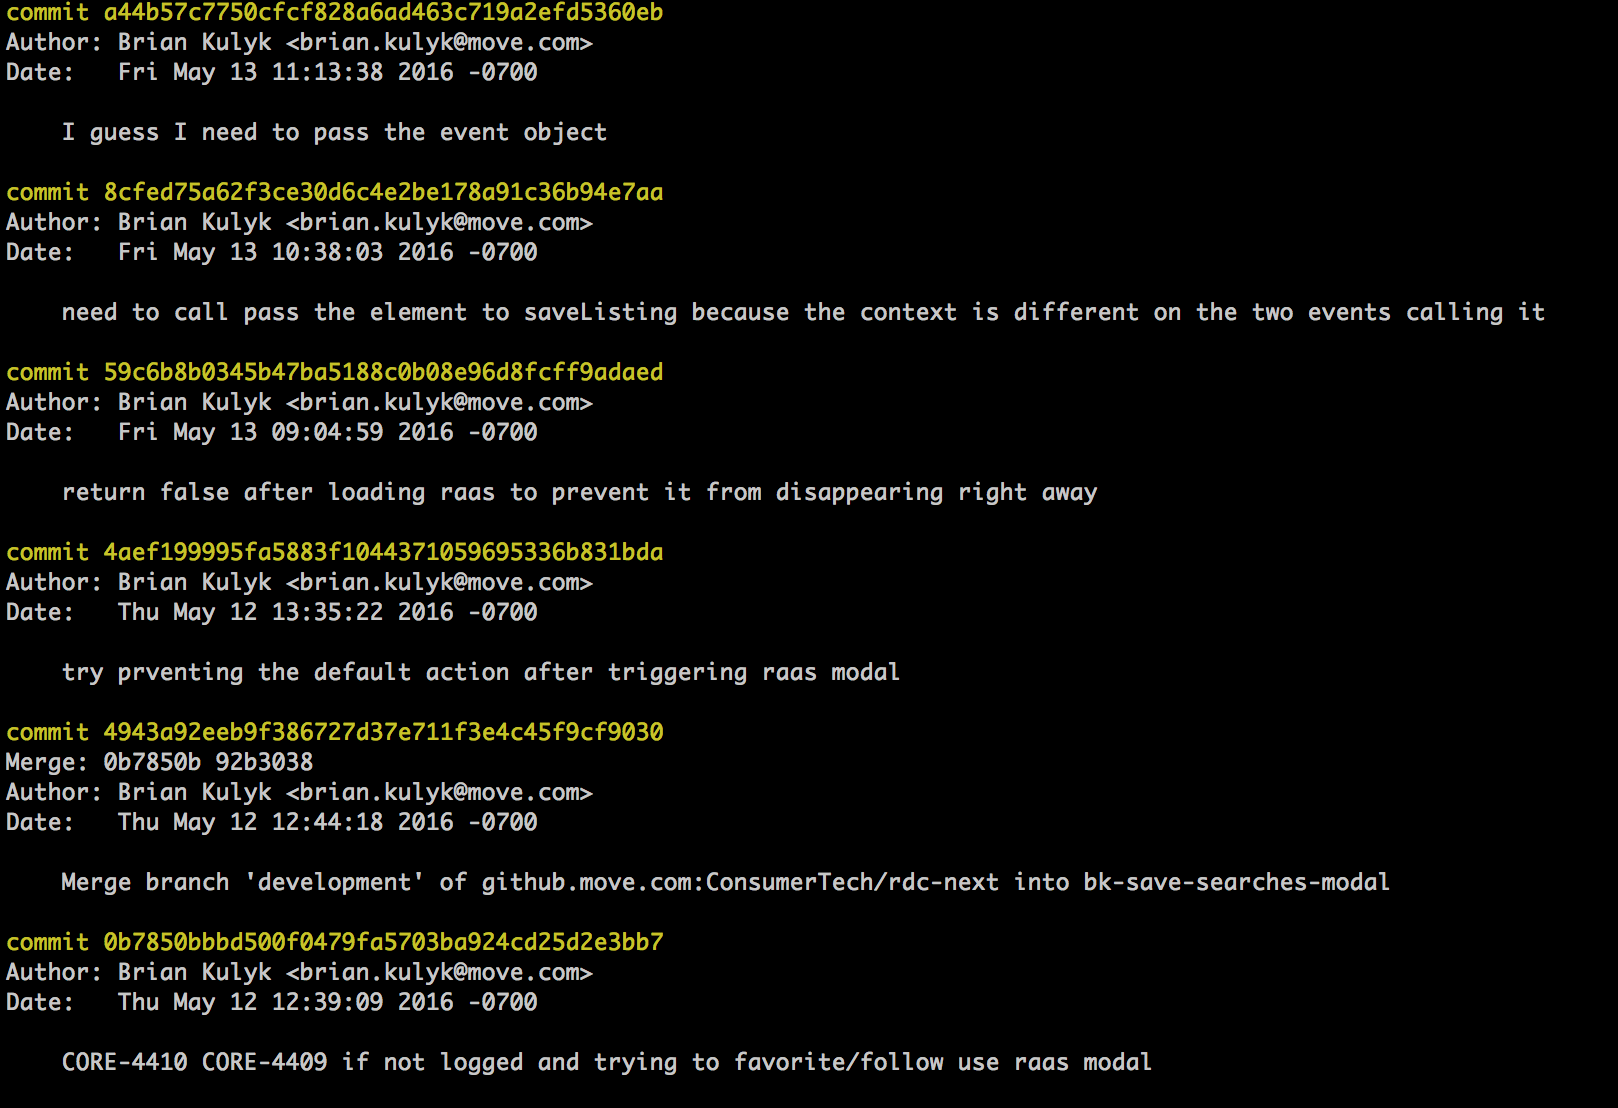
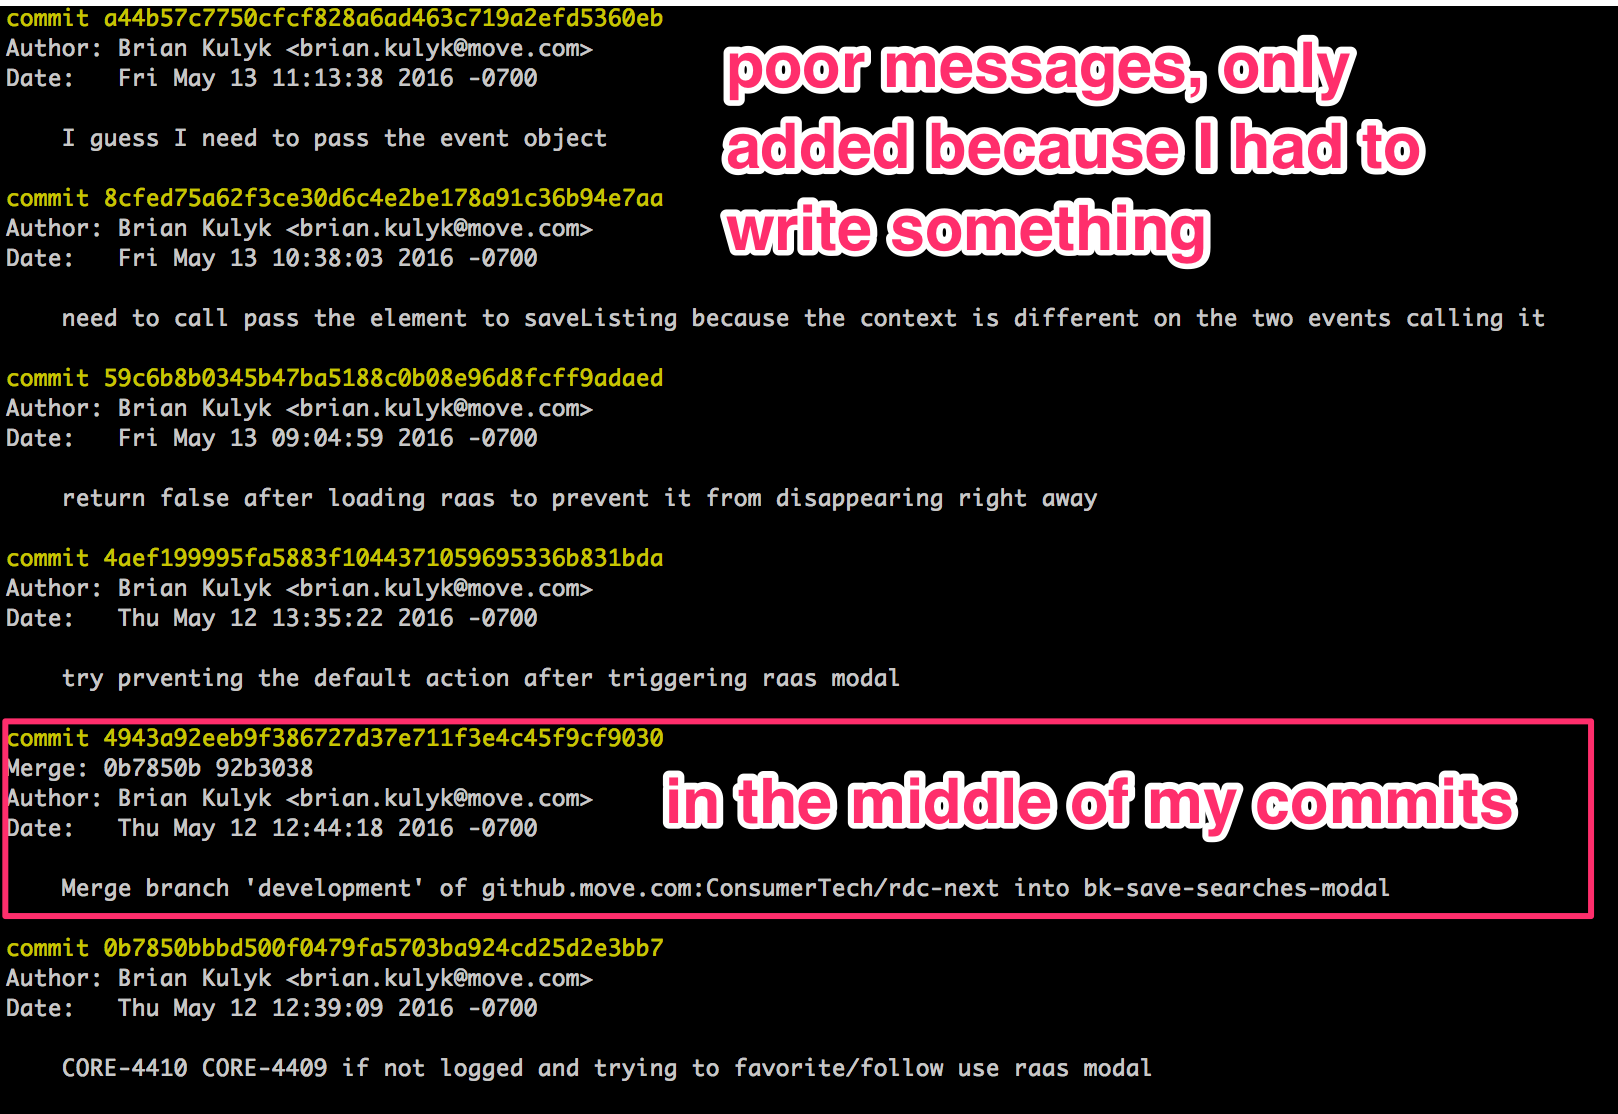
annoted the squah history slide img and added an annotated img for the reordering introduction

diff --git a/index.html b/index.html
@@ -174,7 +174,7 @@
 	<h4>Still kinda ugly though</h4>
 	<p>now two comments about the same thing separated by other commits</p>
 	<small>git log</small>
-	<img src='img/squash-done.png' />
+	<img src='img/reorder-intro.png' />
 </section>
 
 <section>
